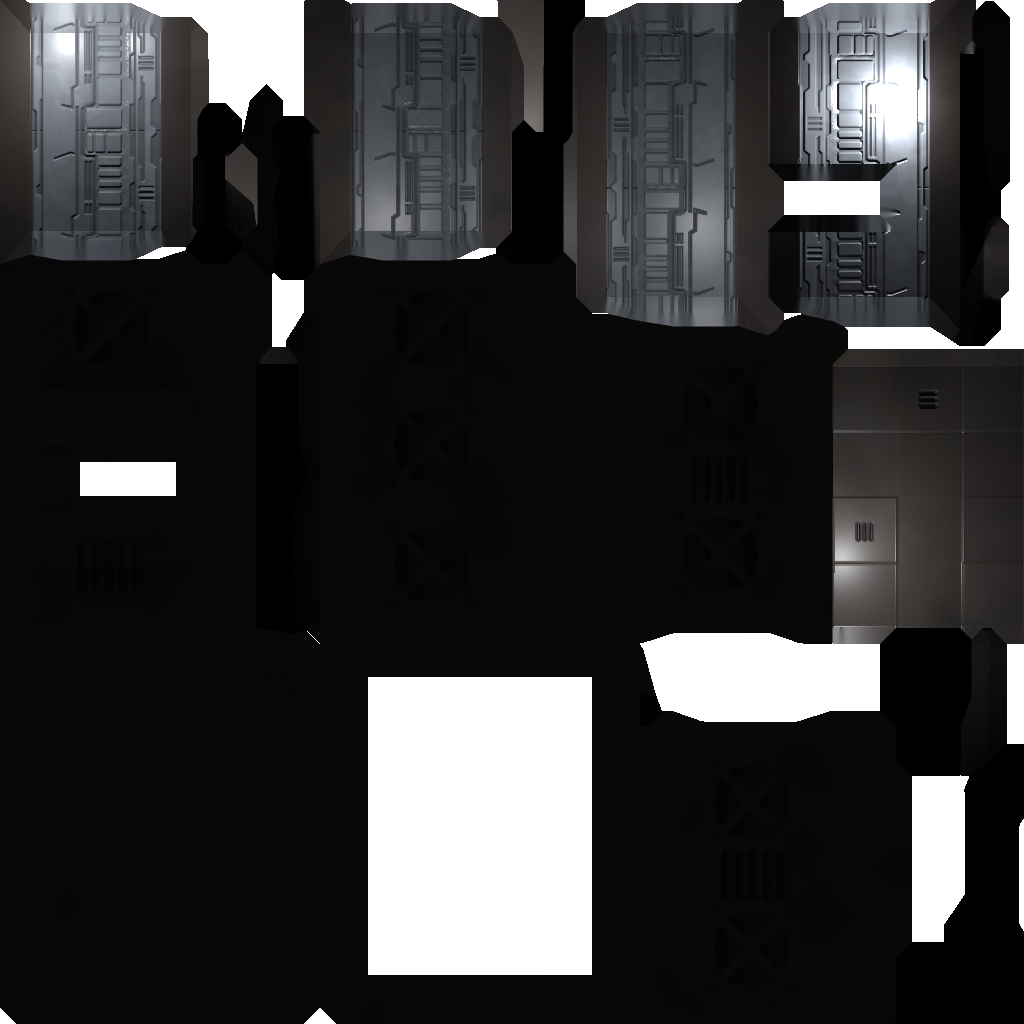
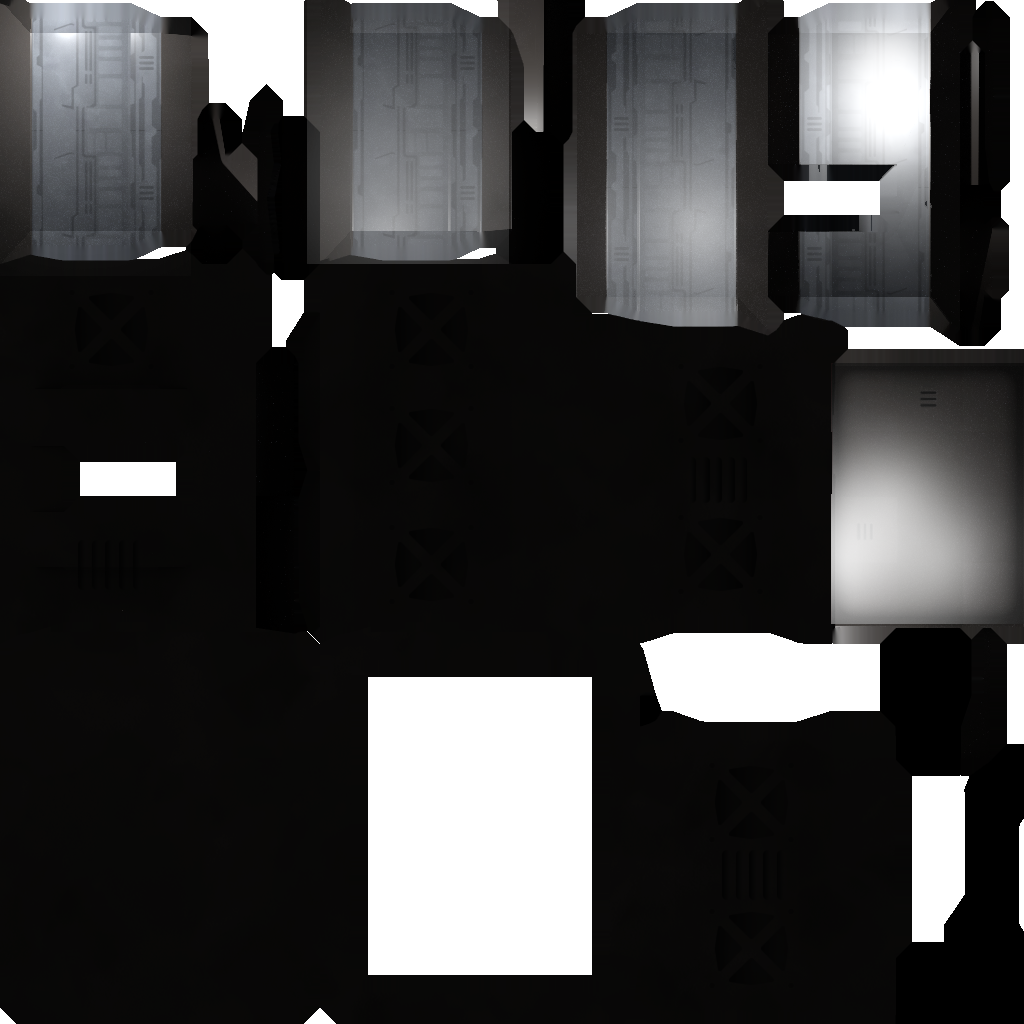
New lightmap and more bump.

diff --git a/src/js/tilemap/load-map.js b/src/js/tilemap/load-map.js
@@ -55,7 +55,7 @@ class LoadTileMap {
                 .then((materials) => {
                     materials.preload();
                     materials.materials.Material.shininess = 10;
-                    materials.materials.Material.bumpScale = 0.045;
+                    materials.materials.Material.bumpScale = 0.145;
                     materials.materials.Material.lightMap = new THREE.TextureLoader().load( "/images/objects/captains-cabin-1-a-lightmap.png" );
                     materials.materials.Material.lightMap.anisotropy = renderer.capabilities.getMaxAnisotropy();
                     // materials.materials.Material.lightMap.wrapS = 1000;
